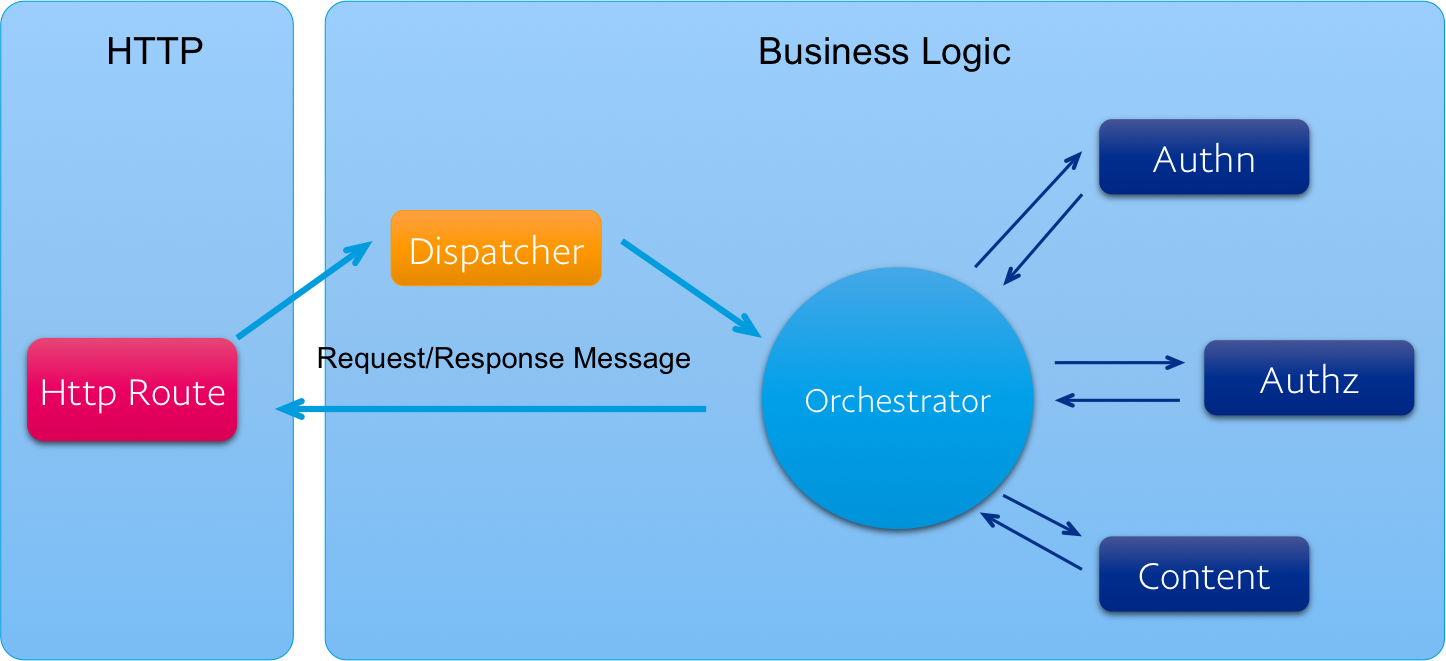
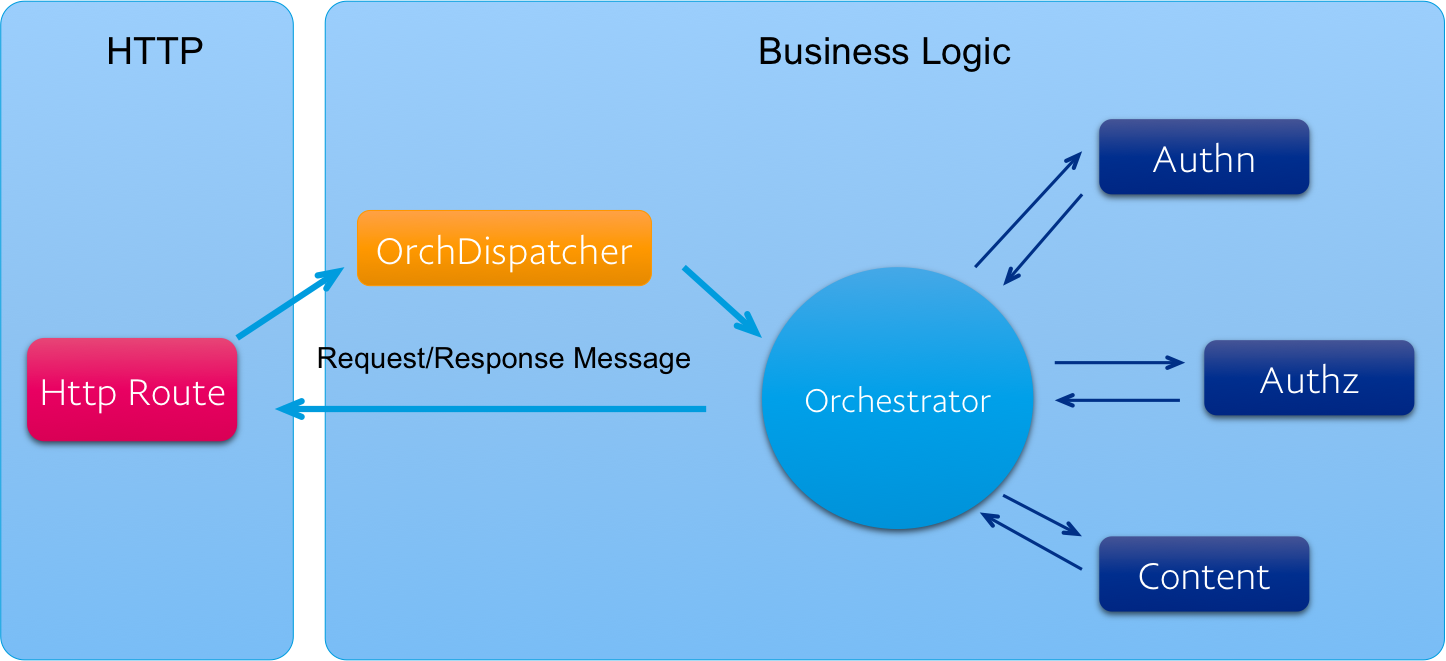
Ensured logging is working now.

Changed region(s): [[0.1867, 0.3026, 0.529, 0.5144]]

diff --git a/docs/squbs training.md b/docs/squbs training.md
@@ -2,12 +2,25 @@
 
 ###Get the squbs template application up and running:
 1. Create a squbs mid-tier service in Altus
-2. Clone the newly created repo
-3. Open app in IntelliJ
-4. Note: Depending on bandwidth, this may need time
-5. Open sbt window
-6. Run `extractConfig dev` from sbt window to populate config
-7. Configure `run` in IntelliJ - add AspectJ config
+2. Use IntelliJ to clone the newly created repo.
+
+   Note: Depending on bandwidth, this may need time
+
+3. Fix a configuration bug (note, this step will not apply to future versions of squbs). Edit `{project}servsvc/src/main/resources/META-INF/configuration/Dev/application.conf` and add the `Slf4jLogger` to the logger list.
+
+   ```
+   akka {
+     loggers = [
+       "akka.event.slf4j.Slf4jLogger",
+       "com.ebay.squbs.rocksqubs.cal.publish.CalLogger"
+     ]
+     ...
+   }
+   ```
+
+4. Open sbt window
+5. Run `extractConfig dev` from sbt window to populate config
+6. Configure `run` in IntelliJ - add AspectJ config
    * Click down button and choose “Edit Configurations"
    * Click the `+` sign
    * Choose `application`
@@ -15,16 +28,18 @@
    * Main class: `org.squbs.unicomplex.Bootstrap`
    * VM options: `-javaagent:/Users/asucharitakul/.ivy2/cache/org.aspectj/aspectjweaver/jars/aspectjweaver-1.8.5.jar`
    * Working directory: `…/{project}servsvc`
-   * Use classpath of module: `{project}svc`
+   * Use classpath of module: `{project}servsvc`
    * Before launch: … box click `-` to remove `make` and click `+` to choose `SBT`. Select action `compile`
    * Click `OK`
-8. Run the app by pressing the start button with the right arrow
-9. Check the app and registered context
+7. Run the app by pressing the start button with the right arrow
+8. Check the app and registered context
    * Point your browser to `http://localhost:8080/admin/v3console/ValidateInternals`
    * Choose the `Component Status` tab
    * Select the link `org.squbs.unicomplex…::Listeners`
    * See the app registered to Default Listener
-10. Point your browser to `http://localhost:8080/{service}serv/hello`
+9. Point your browser to `http://localhost:8080/{service}serv/hello`
+
+    **Note**: The web context is registered in `squbs-meta.conf` of the service project. It can be any value. The project template is setup to use the service name ending with "serv" as the default.
 11. See squbs in action.
 12. Stop the app.
 13. Run the app from sbt
@@ -70,7 +85,7 @@
 
      def receive = {
        case AuthRequest(user, password) =>
-         log.info("Got authn request for user {}, letting it pass", user)
+         log.warning("Got authn request for user {}, letting it pass", user)
          sender() ! AuthResponse(Success("justarandomtoken"))
      }
    }
@@ -83,7 +98,7 @@
 
      def receive = {
        case RoleRequest(user) =>
-         log.info("Got role request from user {}, answering with 'admin'", user)
+         log.warning("Got role request from user {}, answering with 'admin'", user)
          sender() ! RoleResponse(Success("admin"))
      }
    }
@@ -96,13 +111,14 @@
 
      def receive = {
        case ContentRequest(token, role, resource) =>
-         log.info("Got content request token: {}, role: {}, resource: {}, sending some mock content")
+         log.warning("Got content request token: {}, role: {}, resource: {}, sending some mock content"
+           token, role, resource)
          sender() ! ContentResponse("Hello, this is some mock content")
      }
    }
    ```
    
-2. Register the services and input/output types. Note: Registering the input/output types are optional. This registration tells squbs to start your actors for you. Registering the types allows squbs ActorRegistry to find actors by input and output type. 
+2. Register the actors. This registration tells squbs to start your actors for you as long-running actors. Registering the types allows squbs ActorRegistry to find actors by input and output type. Note: Registering the input/output types is optional and only needed for type-based lookup in the ActorRegistry.
 
    Open file `squbs-meta.conf` in the cube project and replace it to be the followings:
 
@@ -166,8 +182,10 @@ In the {project}msgs project, create new case class OrchestrationRequest/Orchest
 
 
 
-###Create the orchestrator actor and dispatcher
-The orchestration actor is a short-lived actor that only lives one request as it contains the request's intermediate state. Services can create the orchestration actor at will. But to provide through loose coupling from http service and be able to call it from any kind of client, be it messages or otherwise, we front the orchestrator with a long-living dispatcher.
+###Create the orchestrator actor and orchestration dispatcher
+The orchestration actor is a short-lived actor that only lives one request as it contains the request's intermediate state. Services can create the orchestration actor at will. But to provide through loose coupling from http service and be able to call it from any kind of client, be it messages or otherwise, we front the orchestrator with a long-living orchestration dispatcher.
+
+**Note**: The dispatcher has nothing to do with the Akka dispatcher. The name duplication is just coincidence)
 
 1. Edit the `build.sbt` file in `{project}servcube` project and add dependencies to `squbs-pattern` and `squbs-actorregistry` The dependencies will look like below. When saving, IntelliJ will prompt for refreshing the project. Click `Refresh project` on the top of the editor. This may take some time depending on bandwidth.
 
@@ -229,6 +247,8 @@ The orchestration actor is a short-lived actor that only lives one request as it
        p.future
      }
    ```
+
+   **Note**: You may notice that we just use `ActorLookup` as is, without telling what to lookup for. `ActorLookup` tries to figure out by itself what you want, based on the request type provided in the `!` and the ones registered in `squbs-meta.conf`. There are other options of using ActorLookup, by request type, response type, by name, and combination of those. We just show the simple use cases
    
 5. Implement the orchestrate function and orchestration logic. The orchestrate function is the key orchestration logic and is usually placed above the request/response functions.
 
@@ -293,7 +313,7 @@ The orchestration actor is a short-lived actor that only lives one request as it
          case Timeout(duration) =>
            val checks = Seq(tokenF -> "token", roleF -> "role", contentF -> "content")
            val message = checks.collect {
-             case (future: Future[_], name: String) if !future.isCompleted => name
+             case (future, name) if !future.isCompleted => name
            } .mkString("Timed out waiting for: [", ",", s"] after $duration")
            requester ! Status.Failure(OrchestrationTimeout(message))
        }
@@ -309,21 +329,21 @@ The orchestration actor is a short-lived actor that only lives one request as it
    ```
    
    
-9. Create the ContentOrchestrator dispatcher. Remember, the ContentOrchestrator is a single use actor. It gets created per request. So we need to implement the dispatcher:
+9. Create the ContentOrchestrator dispatcher. Remember, the ContentOrchestrator is a single use actor. It gets created per request. So we need to implement the orchestration dispatcher as a long-running, registered actor:
 
    ```scala
-   class Dispatcher extends Actor {
+   class OrchDispatcher extends Actor {
      def receive = {
        case request: OrchestrationRequest => context.actorOf(Props[ContentOrchestrator]) forward request
      }
    }
    ```
    
-10. Last, we need to register the dispatcher. Edit `squbs-meta.conf` of the cube project and add the following actor registration:
+10. Last, we need to register the orchestration dispatcher. Edit `squbs-meta.conf` of the cube project and add the following actor registration:
 
    ```
      {
-       class-name = com.paypal.myorg.{project}serv.cube.Dispatcher
+       class-name = com.paypal.myorg.{project}serv.cube.OrchDispatcher
        name = contentOrchestrator
        message-class = [
          {
@@ -374,7 +394,7 @@ The orchestration actor is a short-lived actor that only lives one request as it
 
      def receive = {
        case RoleRequest(user) =>
-         log.info("Got role request from user {}, answering with 'admin'", user)
+         log.warning("Got role request from user {}, answering with 'admin'", user)
          import context.dispatcher
          context.system.scheduler.scheduleOnce(300 milliseconds, sender(), RoleResponse(Success("admin")))
      }
@@ -400,6 +420,7 @@ prioritizeSource ~> crawlerFlow ~> bCast0 ~> result ~> bCast ~> outLinksFlow ~> 
                                                        bCast ~>                 hdfsWriteSink
                                                        bCast ~> graphFlow    ~>    graphMerge ~> graphSink
                                    bCast0 ~> maxPage             ~>                graphMerge
-                                   bCast0 ~> retry ~> bCastRetry ~> retryFailed ~> graphMerge                                                        bCastRetry ~> errorSink
+                                   bCast0 ~> retry ~> bCastRetry ~> retryFailed ~> graphMerge
+                                                      bCastRetry ~> errorSink
 ```
 
